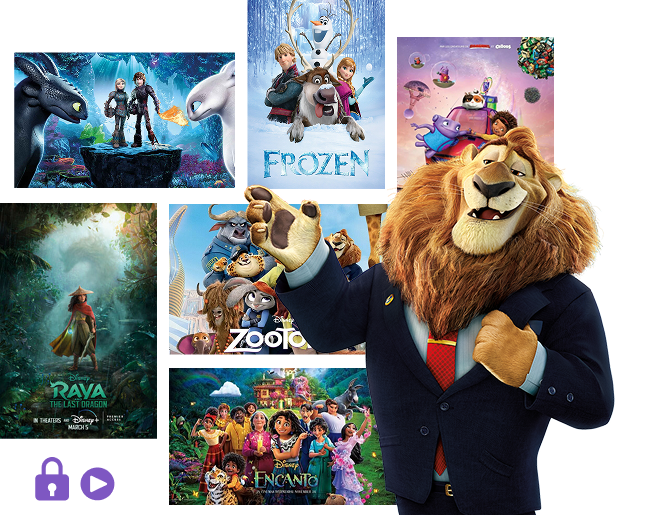
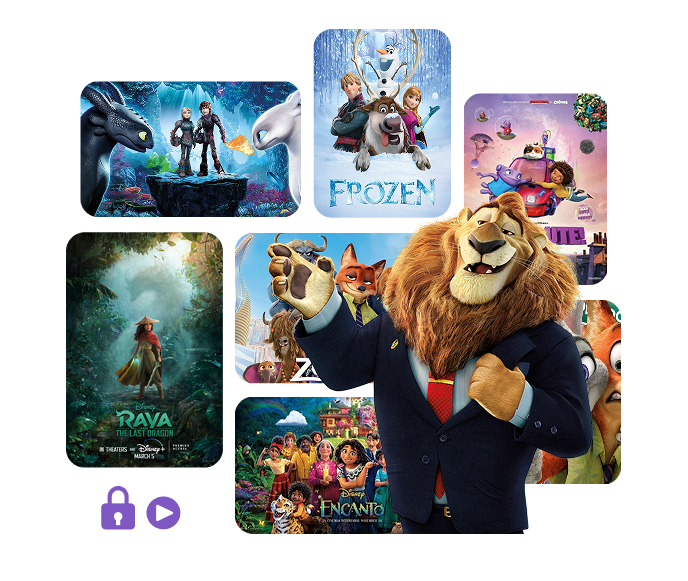
style[WelcomeContainer]: change styles on mobile

diff --git a/src/app/(guest)/welcome/(components)/welcome.data.ts b/src/app/(guest)/welcome/(components)/welcome.data.ts
@@ -13,7 +13,7 @@ import downloadAndWatch from '../../../../../public/images/welcome/downloadAndWa
 import accountForKids from '../../../../../public/images/welcome/accountForKids.png'
 import onlineCinemaTV from '../../../../../public/images/welcome/onlineCinemaTV.png'
 import familyAccount from '../../../../../public/images/welcome/familyAccount.png'
-import pleaseDoNotDisturb from '../../../../../public/images/welcome/pleaseDoNotDisturb.png'
+import tanjiro from '../../../../../public/images/welcome/tanjiro.png'
 
 interface IImage {
   src: StaticImageData
@@ -139,8 +139,8 @@ export const welcomeContainer: IContainer[] = [
     paragraph: 'Content restriction for children. Player blocking function',
     isLeft: true,
     image: accountForKids,
-    width: 647,
-    height: 515,
+    width: 688,
+    height: 581,
   },
   {
     title: 'Online cinema on TV',
@@ -155,15 +155,15 @@ export const welcomeContainer: IContainer[] = [
     paragraph: 'Connect up to 3 accounts in one subscription',
     isLeft: true,
     image: familyAccount,
-    width: 661,
-    height: 268,
+    width: 760,
+    height: 383,
   },
   {
     title: 'Please do not disturb',
     paragraph: 'Missing commercials while watching',
     isLeft: false,
-    image: pleaseDoNotDisturb,
-    width: 647,
-    height: 327,
+    image: tanjiro,
+    width: 700,
+    height: 496,
   },
 ]

diff --git a/src/app/(guest)/welcome/(components)/WelcomeContainer.tsx b/src/app/(guest)/welcome/(components)/WelcomeContainer.tsx
@@ -10,17 +10,17 @@ export default function WelcomeContainer() {
   return (
     <section
       className={
-        'container bg-gray-50 dark:bg-gray-800 rounded-2xl flex flex-col items-center gap-4 p-2 lg:p-4'
+        'container bg-gray-50 dark:bg-gray-800 rounded-2xl flex flex-col items-center gap-6 lg:gap-4 p-4'
       }
     >
       {welcomeContainer.map((container) => (
         <div
-          className={'grid grid-cols-2 gap-2 items-center'}
+          className={'w-full flex flex-col-reverse lg:grid lg:grid-cols-2 gap-4 lg:items-center'}
           key={container.title}
         >
           <Image
-            className={cn('', {
-              'order-2': container.isLeft,
+            className={cn('mx-auto w-full lg:m-0', {
+              'lg:order-2': container.isLeft,
             })}
             src={container.image}
             alt={''}

diff --git a/src/styles/globals.css b/src/styles/globals.css
@@ -61,21 +61,3 @@ body {
     }
   }
 }
-
-/*--color-pink-100: #dca4ff;*/
-/*--color-pink-400: #ff2c78;*/
-/*--color-pink-500: #e01f65;*/
-/*--color-pink-950: #0a031c;*/
-
-/*--color-yellow-50: #fff3e0;*/
-/*--color-yellow-100: #ffdfb3;*/
-
-/*--color-gray-10: #f4f4f4;*/
-/*--color-gray-25: #d4d4d4;*/
-/*--color-gray-50: #d9d9d9;*/
-/*--color-gray-100: #e5e5e5;*/
-/*--color-gray-300: #b5b5b5;*/
-/*--color-gray-400: #9E9E9E;*/
-/*--color-gray-800: #2f323e;*/
-/*--color-gray-900: #222530;*/
-/*--color-gray-950: #020510;*/

diff --git a/src/app/(guest)/welcome/(components)/WelcomeWatchText.tsx b/src/app/(guest)/welcome/(components)/WelcomeWatchText.tsx
@@ -10,8 +10,8 @@ export default function WelcomeWatchText({ title, paragraph, isLeft }: Props) {
   return (
     <div
       className={cn('flex flex-col justify-center gap-1 md:gap-3', {
-        'lg:pl-24': isLeft,
-        'lg:pr-24': !isLeft,
+        'xl:pl-24': isLeft,
+        'xl:pr-24': !isLeft,
       })}
     >
       <h2
